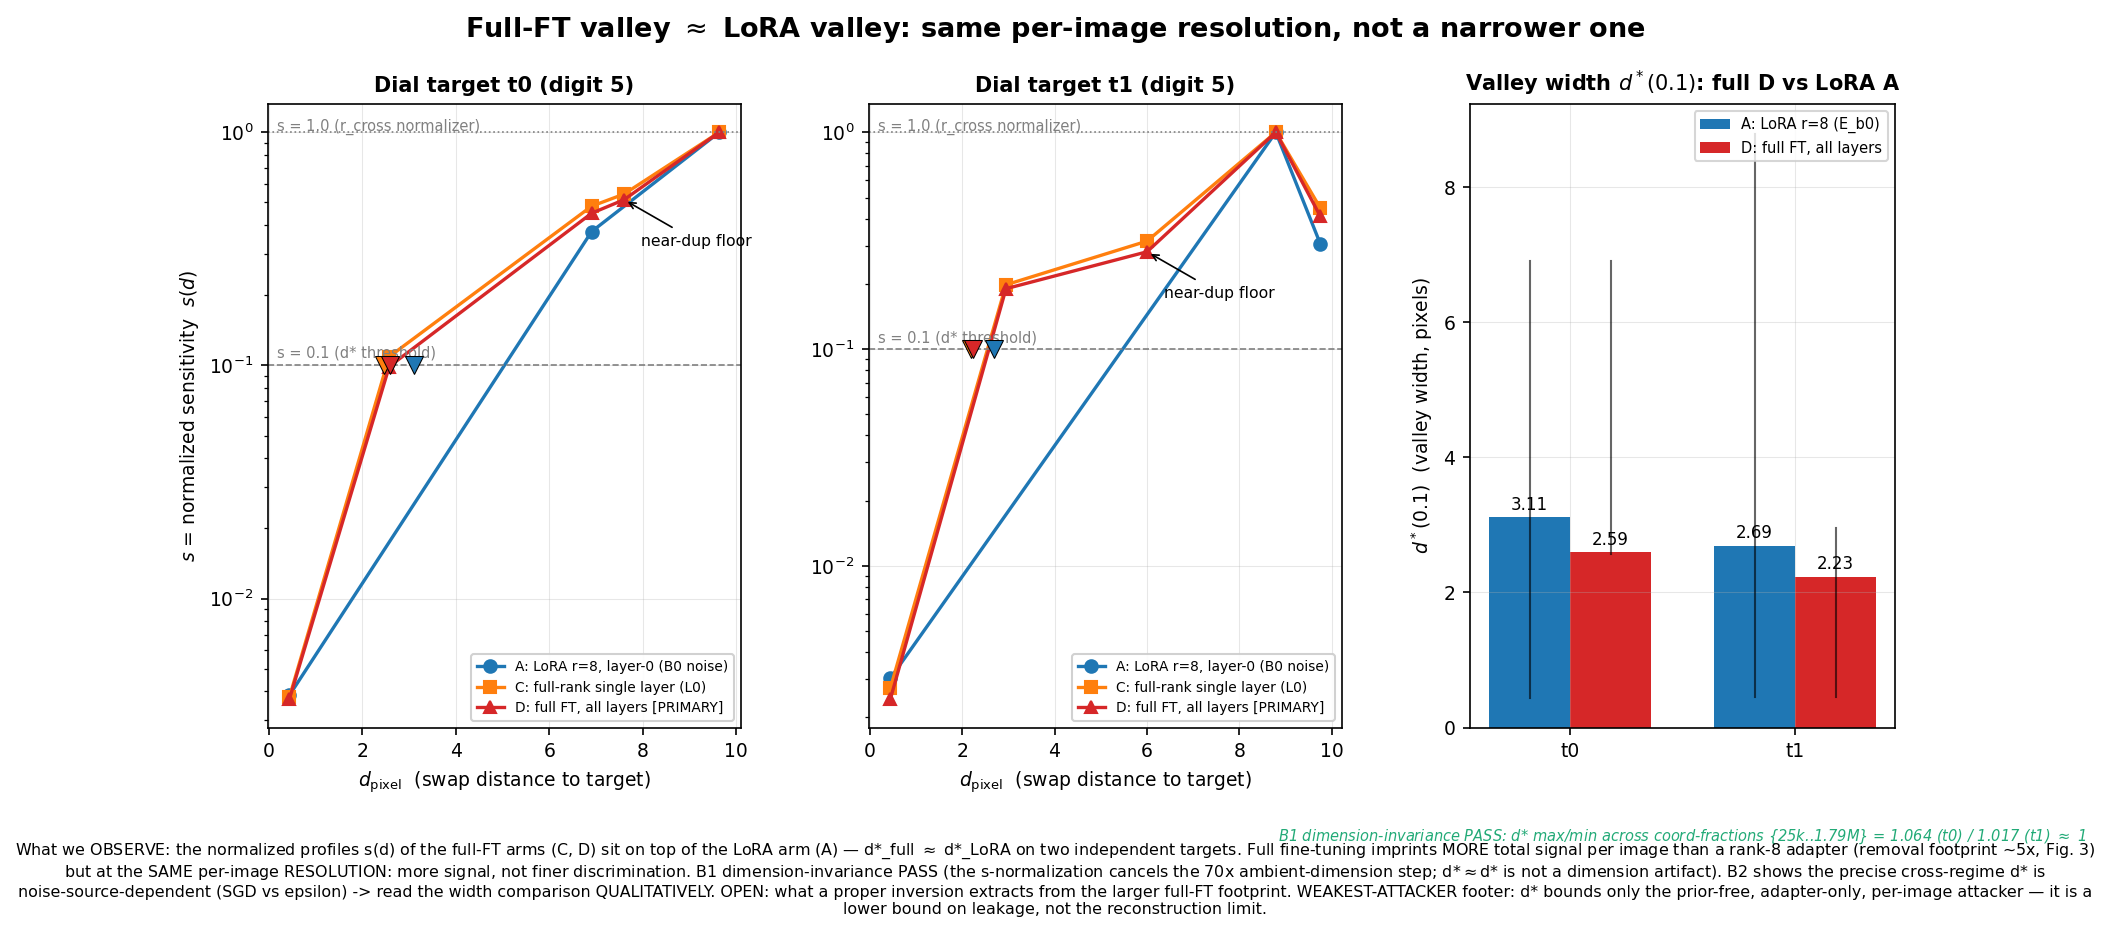
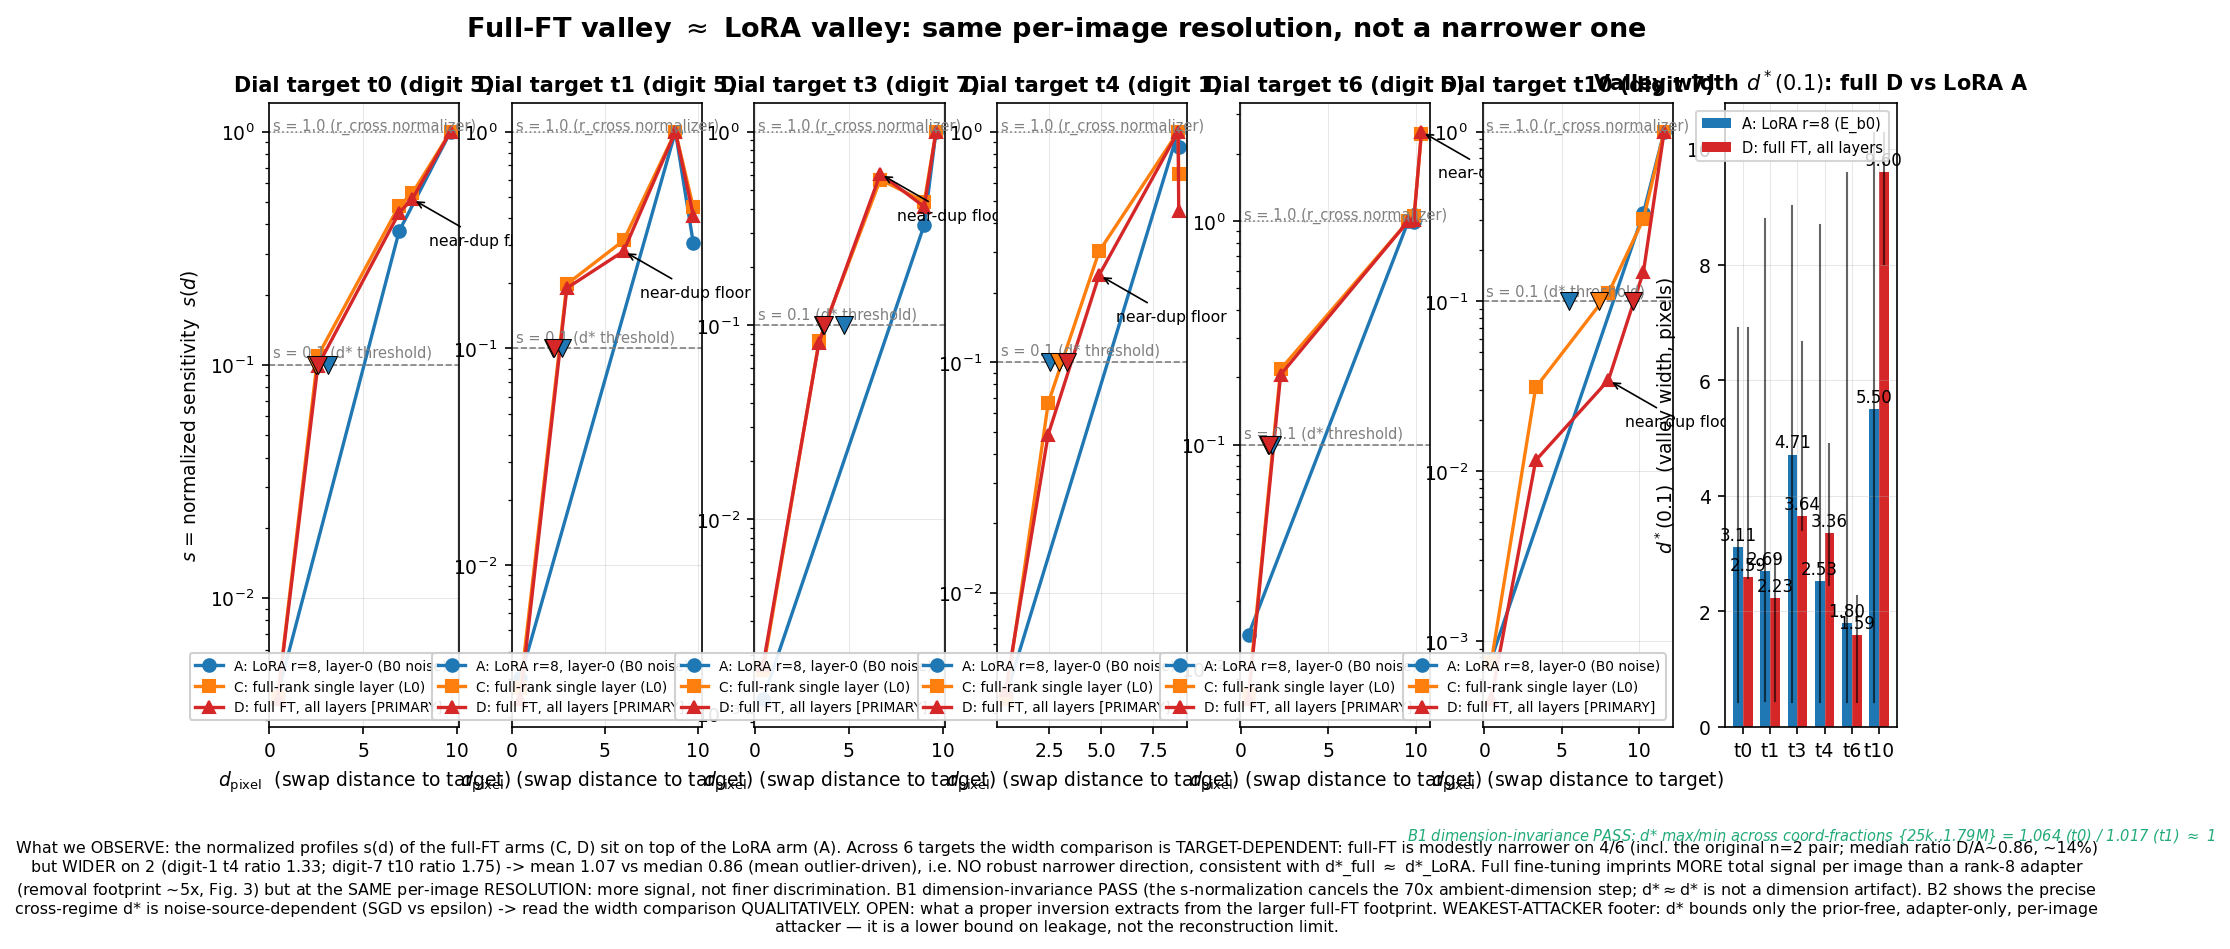
Valley n=6 refresh: full-FT-vs-LoRA valley width is TARGET-DEPENDENT, not robustly narrower (job 695782, arm D)
Arm D (full-FT all-layers) n_targets=6 landed. d*(0.1) ratio full-D/LoRA-A: narrower on 4/6
(t0/t1/t3/t6 = 0.83/0.83/0.77/0.88, median 0.86 ~14%, incl. the original n=2 pair) but FLIPS on 2
(t4 digit-1 = 1.33, t10 digit-7 = 1.75). Mean 1.07 vs median 0.86 (mean outlier-driven by t10) =>
the n=2 '~17% narrower' was a 2-target artifact; NO robust narrower direction, target-dependent
~equal. Strengthens the 'valley width ~= equal / per-image resolution not finer for full-FT' read.
Re-rendered fig_valley_ladder.py (caption -> n=6 target-dependent) + refreshed the deck's
valley_headline_dstar.json (all 6 d* pairs; deck auto-reads). STATUS logged (committed c3a1f64).
Weakest-attacker scoped, K=50, B2-divergent (qualitative).

Changed region(s): [[0.0616, 0.0, 0.9242, 0.8401], [0.0, 0.8712, 0.9858, 0.9957]]

diff --git a/experiments/dataset_sensitivity/fig_valley_ladder.py b/experiments/dataset_sensitivity/fig_valley_ladder.py
@@ -157,7 +157,7 @@ def main():
         "lora_A_dstar": {lab: (v if v == v else None) for lab, v in zip(labels, dA)},
         "full_D_dstar": {lab: (v if v == v else None) for lab, v in zip(labels, dD)},
         "threshold": THRESH,
-        "note": "d*(0.1) valley width, pixels; LoRA A (E_b0) vs full-FT all-layers D; qualitative (B2-divergent, small-n).",
+        "note": "d*(0.1) valley width, pixels; LoRA A (E_b0) vs full-FT all-layers D; n=6 TARGET-DEPENDENT (4/6 full narrower, 2 flip; mean D/A 1.07 vs median 0.86, outlier-driven) -> no robust narrower direction; qualitative (B2-divergent, small-n).",
     }
     try:
         with open(os.path.join(RESULTS, "valley_headline_dstar.json"), "w") as _f:
@@ -201,7 +201,10 @@ def main():
 
     cap = (
         "What we OBSERVE: the normalized profiles s(d) of the full-FT arms (C, D) sit on "
-        "top of the LoRA arm (A) — d*_full $\\approx$ d*_LoRA on two independent targets. Full "
+        "top of the LoRA arm (A). Across 6 targets the width comparison is TARGET-DEPENDENT: full-FT is "
+        "modestly narrower on 4/6 (incl. the original n=2 pair; median ratio D/A~0.86, ~14%) but WIDER on "
+        "2 (digit-1 t4 ratio 1.33; digit-7 t10 ratio 1.75) -> mean 1.07 vs median 0.86 (mean outlier-driven), "
+        "i.e. NO robust narrower direction, consistent with d*_full $\\approx$ d*_LoRA. Full "
         "fine-tuning imprints MORE total signal per image than a rank-8 adapter (removal "
         "footprint ~5x, Fig. 3) but at the SAME per-image RESOLUTION: more signal, not finer "
         "discrimination. B1 dimension-invariance PASS (the s-normalization cancels the 70x "
